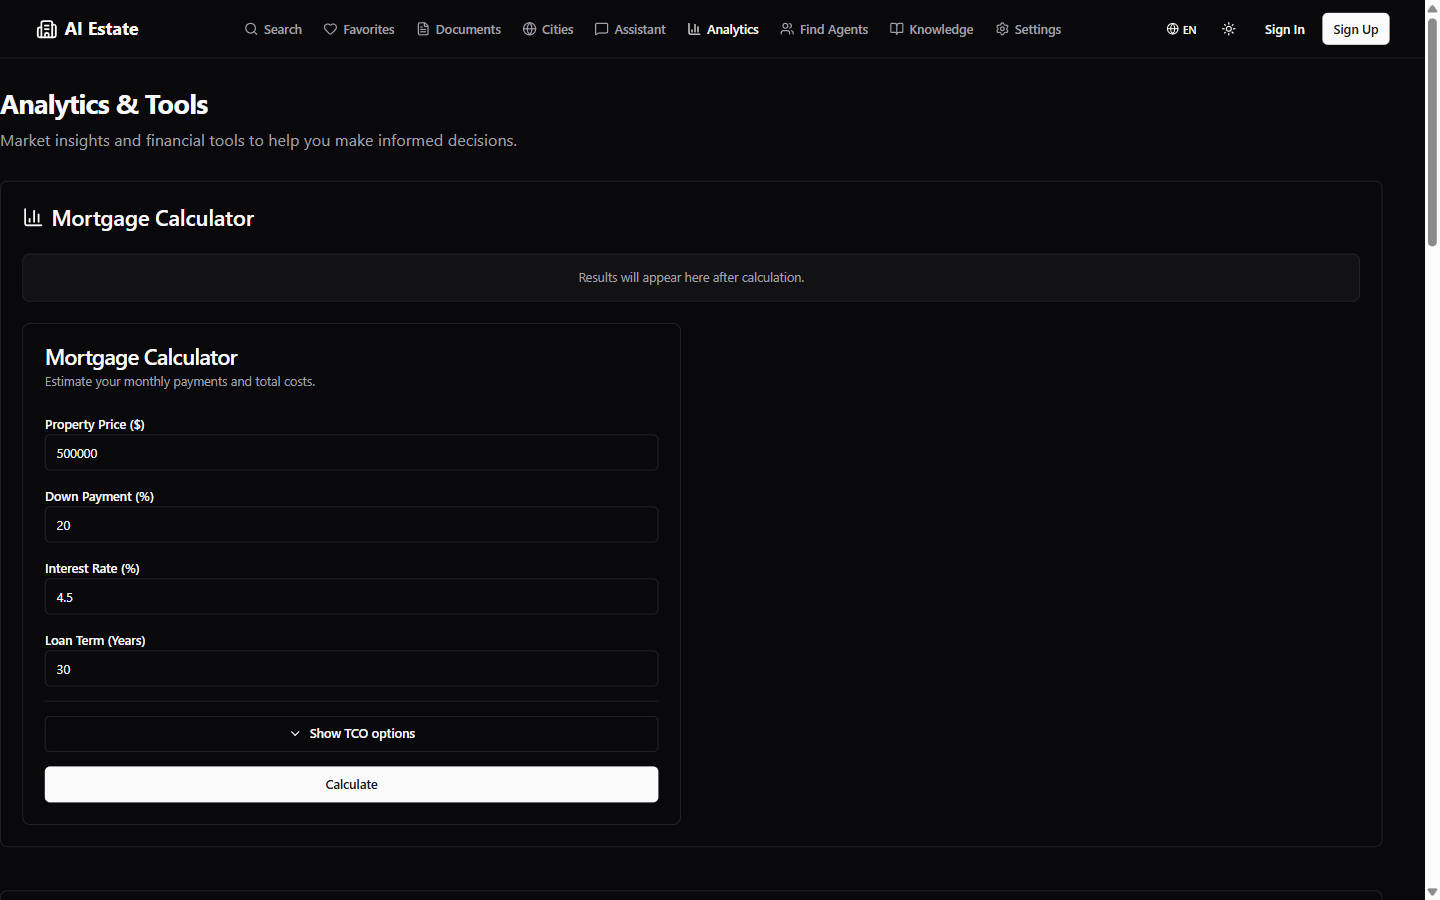
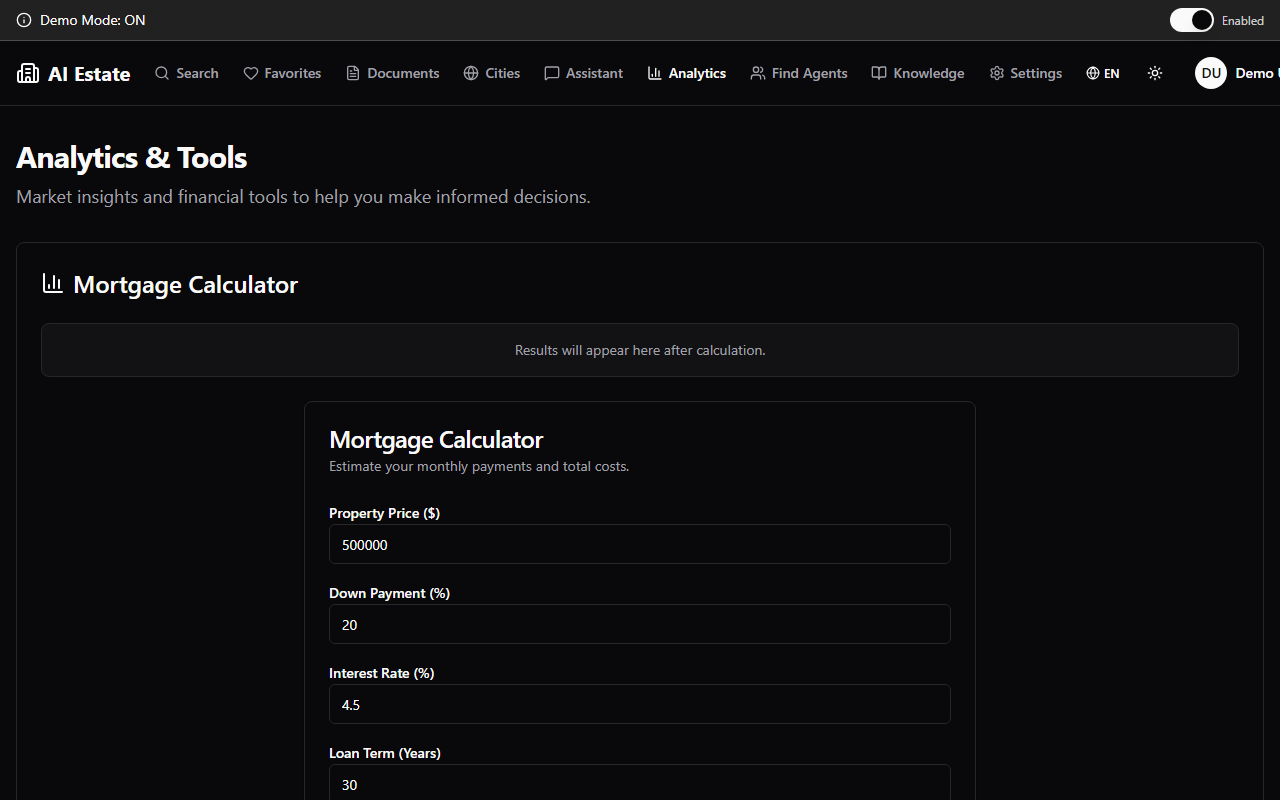
fix(docs): convert README screenshot grid to all-dark theme
The README's '### What it looks like' grid previously used a mix
of 4 light-theme and 2 dark-theme captures. Per user feedback
('make all black, same size, no so big similar like video gif part
size'), this commit converts the entire grid to dark-theme captures
for a unified visual presentation. All 6 references now point to
files in assets/screenshots/*-dark.png with consistent 1280x800
viewport and ~40-80 KB file size.

assets/screenshots/*-dark.png (5 files for README grid):
- home-dark.png:        'AI Real Estate Assistant' hero with
                         'Start Searching' / 'Ask Assistant' CTAs.
- chat-dark.png:        AI Assistant empty welcome with 5
                         suggested prompts + input field.
- agents-dark.png:      'Find an Agent' -- 10 agents populated
                         with ratings, reviews, sales, locations.
- analytics-dark.png:   'Analytics & Tools' -- Mortgage Calculator
                         populated (500000/20/4.5/30).
- knowledge-dark.png:   Knowledge RAG UI -- Upload Documents,
                         Manage Knowledge Base, Ask Questions
                         panels.
- city-overview-dark.png: 'Market Statistics by City' with
                         8 city cards (Warsaw, Krakow, Gdansk,
                         Wroclaw, Poznan, Lodz, Katowice, Lublin).

All 6 captures are desktop (1280x800), dark theme, no error
banners, no 'no data' empty states, no 'Validation error' red
boxes. Each file is 40-80 KB.
[…]

diff --git a/scripts/utils/regen_dark_placeholders.js b/scripts/utils/regen_dark_placeholders.js
@@ -1,8 +1,7 @@
-// Regenerate the 5 byte-identical dark-theme placeholder files in
-// assets/screenshots/ (md5 159c54ac...) by capturing them with the
-// running Docker demo (NEXT_PUBLIC_DEMO_MODE=true). Reads from the
-// SCREENSHOTS array used by take_screenshots.js but writes to
-// assets/screenshots/ with the same names.
+// Capture all 6 README grid screenshots in DARK theme with consistent
+// settings (1280x800, fullPage:false). Writes to assets/screenshots/.
+// Same dark-theme injection as take_screenshots.js (localStorage +
+// .dark class on documentElement).
 const { chromium } = require("playwright");
 const path = require("path");
 const fs = require("fs");
@@ -10,14 +9,18 @@ const fs = require("fs");
 const BASE = process.argv[2] || "http://localhost:3082";
 const OUT_DIR = path.join(__dirname, "..", "..", "assets", "screenshots");
 
-// The 5 placeholder routes (same routes as their light counterparts
-// in docs/screenshots/, but with -dark suffix in the filename).
+// 6 README grid slots, all dark theme.
 const SCREENSHOTS = [
-  { name: "agents-dark", path: "/en/agents" },
+  { name: "home-dark",          path: "/" },
+  { name: "chat-dark",          path: "/en/chat" },
+  { name: "agents-dark",        path: "/en/agents" },
+  { name: "analytics-dark",     path: "/en/analytics" },
   { name: "city-overview-dark", path: "/en/city-overview" },
-  { name: "documents-dark", path: "/en/documents" },
-  { name: "favorites-dark", path: "/en/favorites" },
-  { name: "settings-dark", path: "/en/settings" },
+  { name: "knowledge-dark",     path: "/en/knowledge" },
+  // Auth-gated pages (render fine in demo mode via middleware bypass)
+  { name: "favorites-dark",     path: "/en/favorites" },
+  { name: "documents-dark",     path: "/en/documents" },
+  { name: "settings-dark",      path: "/en/settings" },
 ];
 
 async function main() {
@@ -28,7 +31,9 @@ async function main() {
     locale: "en-US",
     colorScheme: "dark",
   });
-  // Apply dark theme before any page renders
+  // Force dark theme (the page's className="dark" default makes
+  // colorScheme: 'dark' work, but we set localStorage + class
+  // explicitly for safety).
   await context.addInitScript(() => {
     localStorage.setItem("theme", "dark");
     document.documentElement.classList.add("dark");
@@ -40,14 +45,9 @@ async function main() {
     console.log(`Capturing ${shot.name}...`);
     try {
       await page.goto(url, { waitUntil: "load", timeout: 30000 });
-      // City-overview fires 5+ parallel search queries; give them time.
+      // city-overview fires 5+ parallel search queries; give them time.
       const wait = shot.name === "city-overview-dark" ? 12000 : 5000;
       await page.waitForTimeout(wait);
-
-      const btn = page.locator("button:has-text('Accept'), button:has-text('Close')");
-      try {
-        if (await btn.isVisible({ timeout: 1000 })) await btn.click();
-      } catch {}
 
       const outPath = path.join(OUT_DIR, `${shot.name}.png`);
       await page.screenshot({ path: outPath, fullPage: false });
@@ -60,7 +60,7 @@ async function main() {
 
   await context.close();
   await browser.close();
-  console.log("\nDone! Dark-theme placeholders regenerated.");
+  console.log("\nDone! Dark-theme captures regenerated.");
 }
 
 main().catch((err) => {

diff --git a/README.md b/README.md
@@ -132,14 +132,13 @@ To override the gate (e.g. force lazy loading on a different platform), set `REN
 
 | Landing | AI Assistant | AI Agents |
 |---|---|---|
-| ![Home](assets/screenshots/home-dark.png) | ![Chat](docs/screenshots/chat.png) | ![Agents](docs/screenshots/agents.png) |
-| Analytics | Knowledge & RAG | Property Search |
-| ![Analytics](docs/screenshots/analytics.png) | ![Knowledge](assets/screenshots/knowledge-dark.png) | ![Search Results](docs/screenshots/search-results.png) |
+| ![Home](assets/screenshots/home-dark.png) | ![Chat](assets/screenshots/chat-dark.png) | ![Agents](assets/screenshots/agents-dark.png) |
+| Analytics | Knowledge & RAG | City Overview |
+| ![Analytics](assets/screenshots/analytics-dark.png) | ![Knowledge](assets/screenshots/knowledge-dark.png) | ![City](assets/screenshots/city-overview-dark.png) |
 
-*Mixed light + dark captures (desktop only, no mobile). Empty welcome screen on
-Assistant is intentional — the chat populates as soon as the user sends a
-message. The working source captures live in `docs/screenshots/` (light) and
-`assets/screenshots/` (dark).*
+*All dark-theme desktop captures (1280x800). Working source files live in
+`assets/screenshots/*-dark.png`. Light-theme variants are available in
+`docs/screenshots/`.*
 
 ## ✨ Features
 
